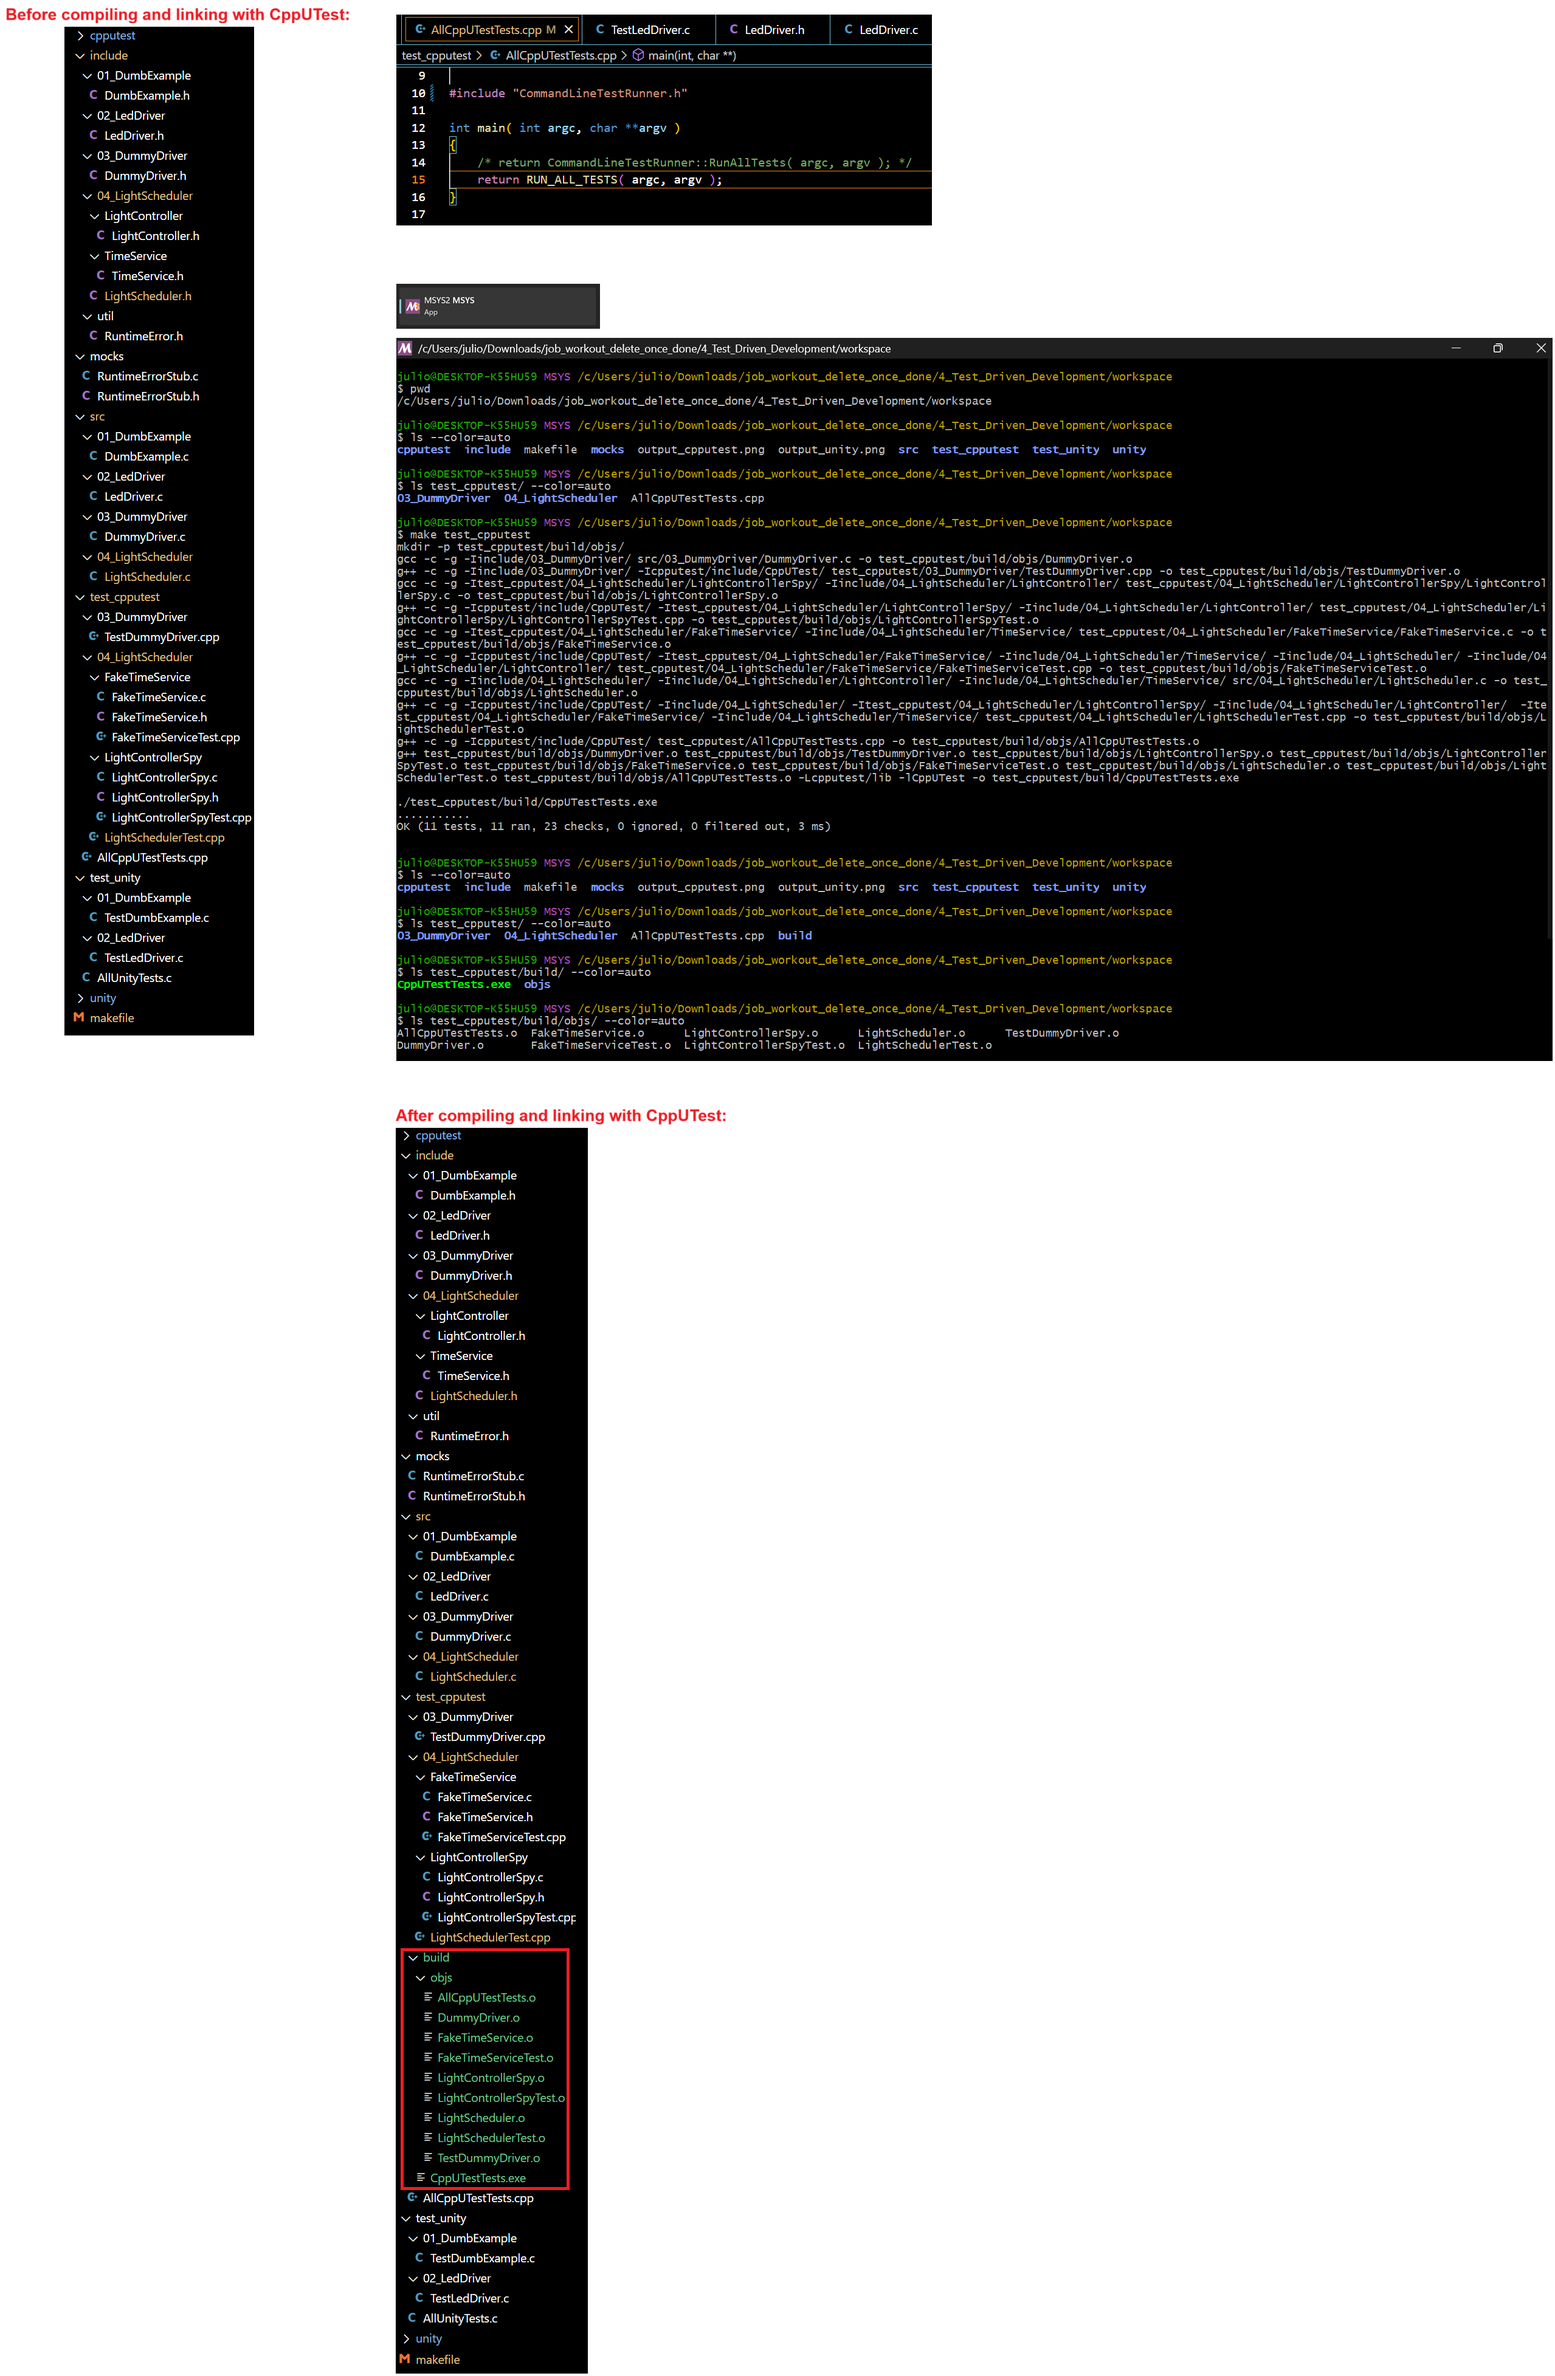
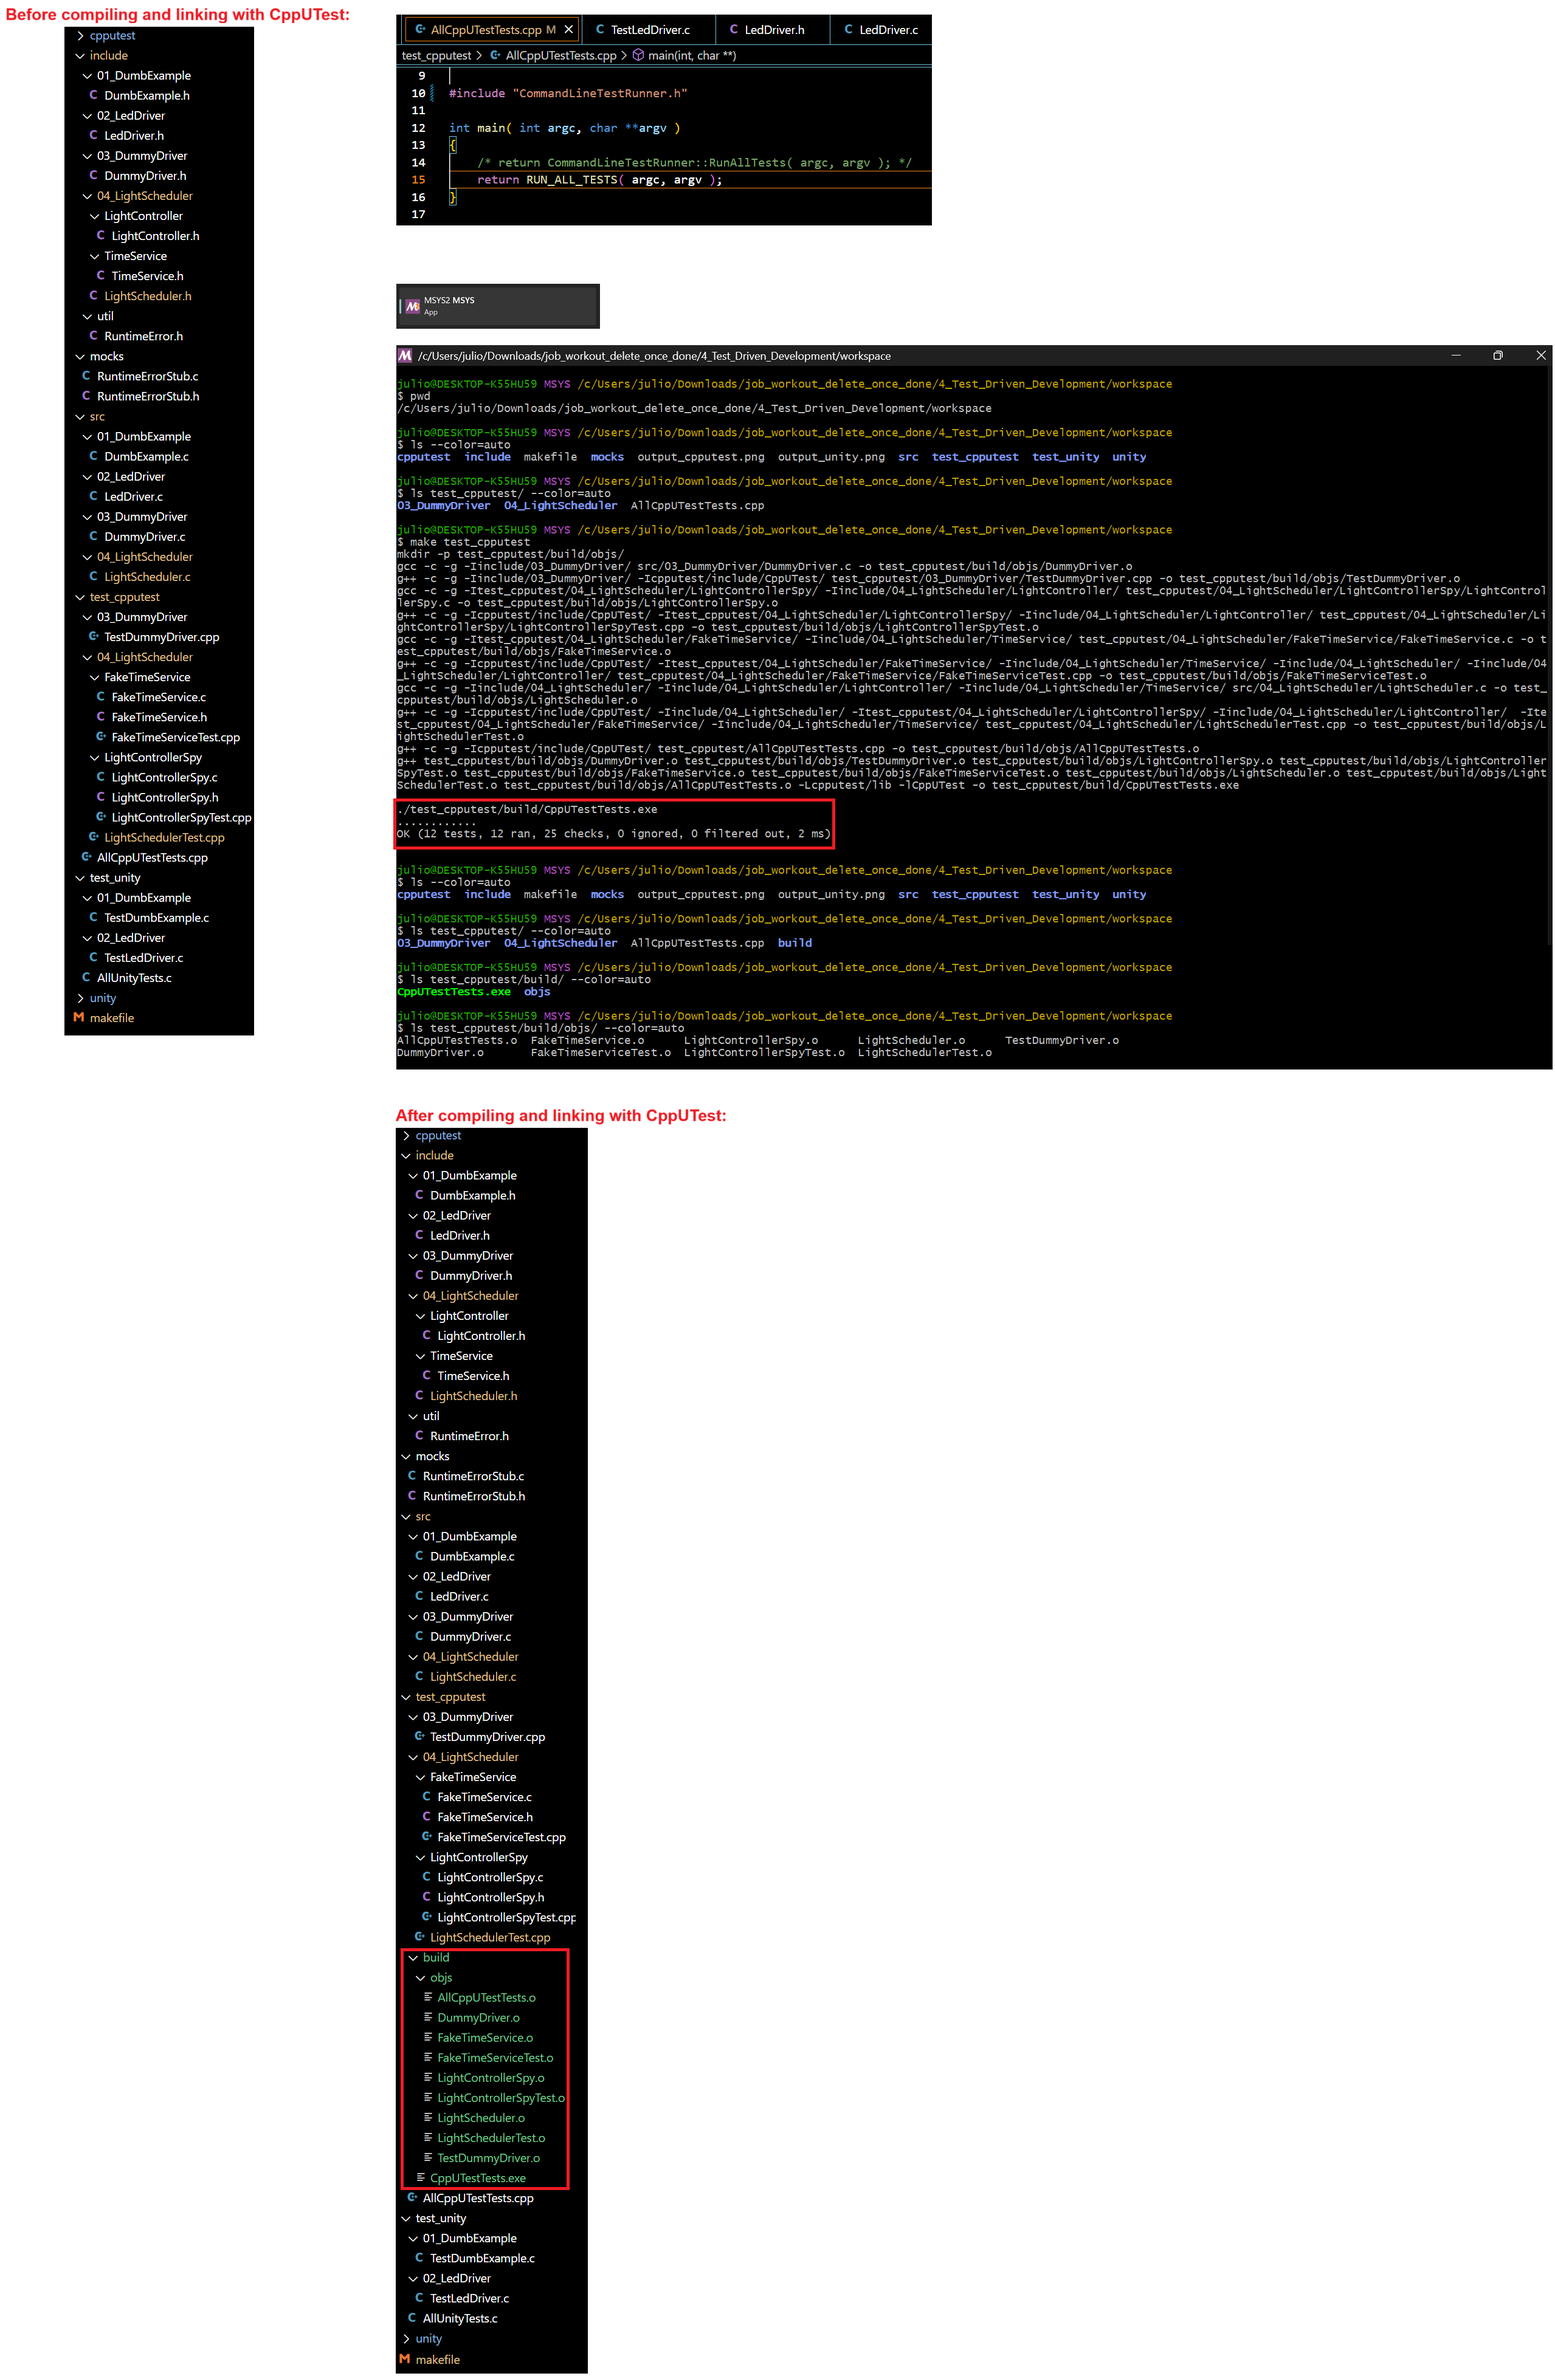
Add LightScheduler ScheduleWeekendItsMonday test

Changed region(s): [[0.2471, 0.1248, 1.0, 0.468]]

diff --git a/test_cpputest/04_LightScheduler/LightSchedulerTest.cpp b/test_cpputest/04_LightScheduler/LightSchedulerTest.cpp
@@ -119,8 +119,9 @@ TEST( LightScheduler, NoScheduleNothingHappens )
 
 TEST( LightScheduler, ScheduleOnEverydayNotTimeYet )
 {
-    /* After initialization of the Light Scheduler (setup() calls LightController_Create() which sets
-       both the last scheduled light ID and last scheduled light state as unknowns) */
+    /* after initialization of the Light Scheduler there are no scheduled events
+       (setup() calls LightController_Create() which sets both the last scheduled light ID
+       and last scheduled light state as unknowns) */
 
     /* The test schedules the light with ID 3 to turn ON everyday at the 1200th minute
        (i.e. 1200mins / (60mins / 1hr) = 20hrs = 8pm) */
@@ -143,8 +144,9 @@ TEST( LightScheduler, ScheduleOnEverydayNotTimeYet )
 
 TEST( LightScheduler, ScheduleOnEverydayItsTime )
 {
-    /* After initialization of the Light Scheduler (setup() calls LightController_Create() which sets
-       both the last scheduled light ID and last scheduled light state as unknowns) */
+    /* after initialization of the Light Scheduler there are no scheduled events
+       (setup() calls LightController_Create() which sets both the last scheduled light ID
+       and last scheduled light state as unknowns) */
 
     /* The test schedules the light with ID 3 to turn ON everyday at the 1200th minute
        (i.e. 1200mins / (60mins / 1hr) = 20hrs = 8pm) */
@@ -166,8 +168,9 @@ TEST( LightScheduler, ScheduleOnEverydayItsTime )
 
 TEST( LightScheduler, ScheduleOffEverydayItsTime )
 {
-    /* After initialization of the Light Scheduler (setup() calls LightController_Create() which sets
-       both the last scheduled light ID and last scheduled light state as unknowns) */
+    /* after initialization of the Light Scheduler there are no scheduled events
+       (setup() calls LightController_Create() which sets both the last scheduled light ID
+       and last scheduled light state as unknowns) */
 
     /* The test schedules the light with ID 3 to turn OFF everyday at the 1200th minute
        (i.e. 1200mins / (60mins / 1hr) = 20hrs = 8pm) */
@@ -185,4 +188,27 @@ TEST( LightScheduler, ScheduleOffEverydayItsTime )
     /* Finally the test checks the expected outcome (the time for the scheduled light ID has been reached,
        then light ID should be 3 and state should be OFF)  */
     checkLightState( 3, LIGHT_OFF );
+}
+
+
+TEST( LightScheduler, ScheduleWeekendItsMonday )
+{
+    /* after initialization of the Light Scheduler there are no scheduled events
+       (setup() calls LightController_Create() which sets both the last scheduled light ID
+       and last scheduled light state as unknowns) */
+
+    /* schedule light with ID 3 to turn on on weekends (saturdays and sundays) at minute 1200th (8pm)*/
+    LightScheduler_ScheduleTurnOn( 3, WEEKEND, 1200 );
+
+    /* set the current (fake) time to monday 8pm */
+    setTimeTo( MONDAY, 1200 );
+
+    /* callback to Light Scheduler wakeup (this compares the current time to any scheduled events,
+       if there's a match then it will turn on or off the specified light ID) */
+    LightScheduler_Wakeup();
+
+    /* compare the light ID and its state, they should be unknowns because scheduled event
+       has not been reached (scheduled a light on on weekends at 8pm, but its currently monday 8pm,
+       light ID and light state keep their initial states) */
+    checkLightState( LIGHT_ID_UNKNOWN, LIGHT_STATE_UNKNOWN );
 }

diff --git a/src/04_LightScheduler/LightScheduler.c b/src/04_LightScheduler/LightScheduler.c
@@ -17,6 +17,7 @@ typedef struct
 {
     int event;       /* light event (ON or OFF) to schedule */
     int id;          /* light id to schedule */
+    Day day;         /* day of the week to schedule the light */
     int minuteOfDay; /* minute of the day to schedule the light */
 } ScheduledLightEvent;
 
@@ -32,6 +33,9 @@ static void scheduleEvent( int id, Day day, int minuteOfDay, int event )
 {
     /* assign the light ID to the scheduled event ID */
     scheduledEvent.id = id;
+
+    /* assight the day of the week to the scheduled event day of the week */
+    scheduledEvent.day = day;
 
     /* assign the minute of the day to the scheduled event minute of the day */
     scheduledEvent.minuteOfDay = minuteOfDay;
@@ -54,15 +58,20 @@ static void processEventDueNow( Time *time, ScheduledLightEvent *lightEvent )
        This function is all set to be called from a loop when support for multiple events is added */
 
     /* if the scheduled event light ID is not UNUSED (i.e. the light has been scheduled to be turned on/off
-       via LightScheduler_ScheduleTurnOn()/Off())
-       and if the current minute of the day is the same minute scheduled for the light to be turned on/off */
-    if ( ( lightEvent->id != UNUSED ) && ( time->minuteOfDay == scheduledEvent.minuteOfDay ) )
-    {
-        /* turn the light on or off as scheduled */
-        operateLight( lightEvent );
-    }
-   
-    /* otherwise do nothing */
+       via LightScheduler_ScheduleTurnOn()/Off() */
+    if ( lightEvent->id == UNUSED )
+        return;
+
+    /* if the scheduled day for the light to be turned on/off is not everyday and is not today */
+    if ( ( lightEvent->day != EVERYDAY ) && ( lightEvent->day != time->dayOfWeek ) )
+        return;
+
+    /* if the scheduled minute for the light to be turned on/off is not the same as the current minute of the day */
+    if ( lightEvent->minuteOfDay != time->minuteOfDay )
+        return;
+
+    /* else: a light was scheduled to turn on or off at this precise time */
+    operateLight( lightEvent );
 }
 
 void LightScheduler_Create( void )
@@ -106,7 +115,7 @@ void LightScheduler_Wakeup( void )
 
     Time time;
 
-    /* get minute of the day and day of the week */
+    /* get current minute of the day and day of the week */
     TimeService_GetTime( &time );
 
     /* schedule the event for the specified time */
